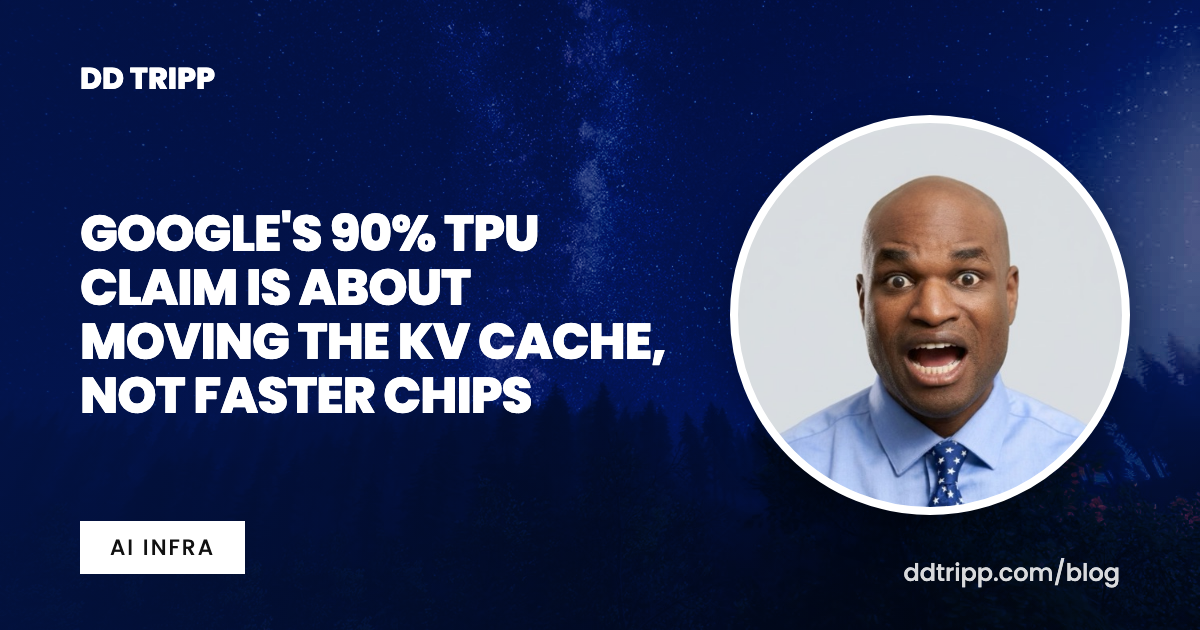
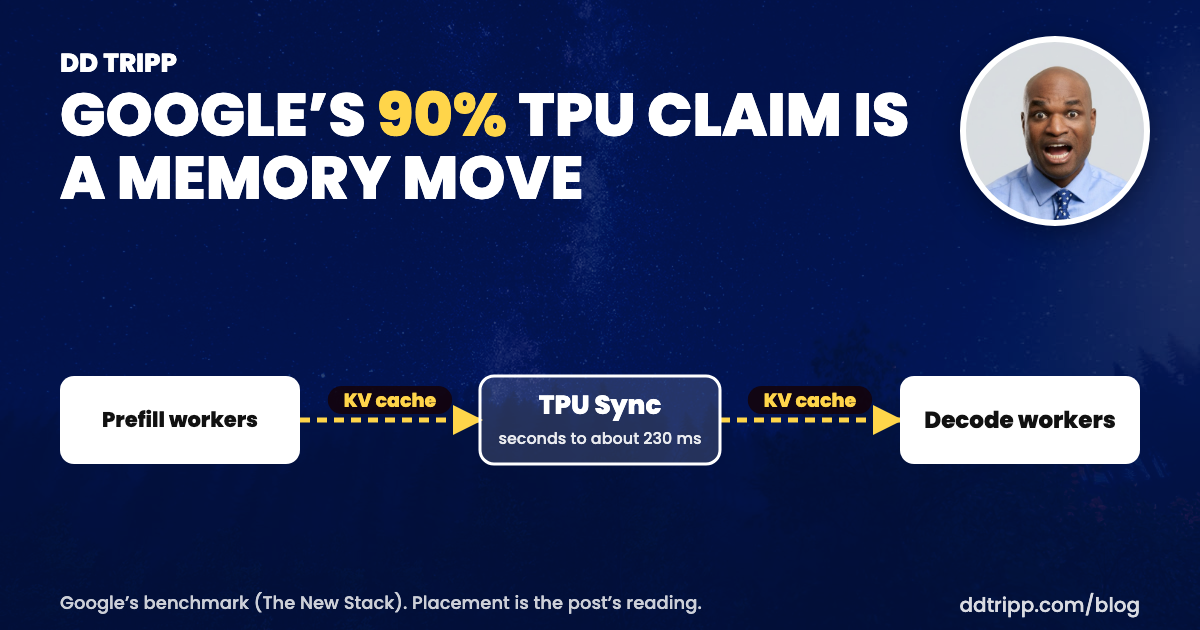
Backfill title images: short headlines for all posts, source-checked diagrams for nine

diff --git a/src/content/blog/postgres-upgrade-is-not-the-scary-part.md b/src/content/blog/postgres-upgrade-is-not-the-scary-part.md
@@ -2,6 +2,8 @@
 title: "The scary part of a Postgres major upgrade isn't Postgres"
 description: "Percona's operator now automates major version upgrades on Kubernetes. The risk that's left is the operating system library under the database."
 pubDate: 'Nov 10 2026 09:00'
+imageHeadline: 'The scary part of a Postgres upgrade isn’t Postgres'
+imageDiagram: '{"nodes": [{"id": "r", "label": "PerconaPGUpgrade", "col": 0, "row": 0, "src": "you create a PerconaPGUpgrade resource that names the cluster"}, {"id": "u", "label": "pg_upgrade --link", "col": 1, "row": 0, "src": "executes pg_upgrade --link on the primary''s volume"}, {"id": "rep", "label": "Replicas re-sync", "col": 2, "row": 0, "src": "Re-syncs the replicas from the upgraded primary"}, {"id": "os", "label": "UBI 8 to UBI 9", "col": 0, "row": 2, "sub": "operator v2.6.0 image", "style": "muted", "src": "From operator v2.6.0 the base image moved from UBI 8 to UBI 9"}, {"id": "g", "label": "glibc 2.28 to 2.34", "col": 1, "row": 2, "src": "That changes glibc from 2.28 to 2.34"}, {"id": "ix", "label": "Collation warning", "col": 2, "row": 2, "sub": "REINDEX needed", "src": ["Postgres warns about a collation version mismatch", "needed REINDEX INDEX CONCURRENTLY on the affected index"]}], "edges": [{"from": "r", "to": "u", "src": "executes pg_upgrade --link on the primary''s volume"}, {"from": "u", "to": "rep", "src": "Re-syncs the replicas from the upgraded primary"}, {"from": "os", "to": "g", "src": "That changes glibc from 2.28 to 2.34"}, {"from": "g", "to": "ix", "label": "sort order", "style": "hot", "src": "When the sort order changes underneath existing indexes, Postgres warns about a collation version mismatch"}], "note": "The cluster shuts down first, so the upgrade means downtime"}'
 imageTag: 'Postgres'
 heroImage: '../../assets/post-images/postgres-upgrade-is-not-the-scary-part.png'
 imageTheme: 'red'

diff --git a/src/content/blog/drain-one-direct-connect-link.md b/src/content/blog/drain-one-direct-connect-link.md
@@ -2,6 +2,8 @@
 title: "DeepL drains one Direct Connect link without moving every Region"
 description: "Local preference would have changed the exit for all Regions at once. An AS_PATH prepend changes it for one, because the decision is made at each Cloud WAN edge."
 pubDate: 'Nov 09 2026 13:00'
+imageHeadline: 'DeepL drains one Direct Connect link'
+imageDiagram: '{"nodes": [{"id": "d", "label": "Dublin link", "col": 0, "row": 1, "sub": "AS_PATH prepended", "style": "muted", "src": "An on-premises AS_PATH prepend on the Dublin virtual interface"}, {"id": "w", "label": "eu-west-1 edge", "col": 1, "row": 1, "sub": "sees a longer path", "src": "The eu-west-1 edge sees its gateway path become longer than the paths from the eu-central-1 and eu-north-1 edges"}, {"id": "c", "label": "eu-central-1 edge", "col": 2, "row": 0, "sub": "exits via Copenhagen", "src": "eu-central-1 through Copenhagen"}, {"id": "n", "label": "eu-north-1 edge", "col": 2, "row": 2, "sub": "exits via Stockholm", "src": "eu-north-1 through Stockholm"}], "edges": [{"from": "d", "to": "w", "label": "prepend", "style": "dashed", "src": "An on-premises AS_PATH prepend on the Dublin virtual interface"}, {"from": "w", "to": "c", "label": "core network", "style": "dashed", "src": "so it sends traffic across the core network and out through Copenhagen or Stockholm"}, {"from": "w", "to": "n", "label": "core network", "style": "dashed", "src": "so it sends traffic across the core network and out through Copenhagen or Stockholm"}], "note": "Cloud WAN picks Copenhagen or Stockholm by default"}'
 imageTag: 'Networking'
 heroImage: '../../assets/post-images/drain-one-direct-connect-link.png'
 imageTheme: 'purple'

diff --git a/src/content/blog/agent-memory-is-a-write-path.md b/src/content/blog/agent-memory-is-a-write-path.md
@@ -2,6 +2,8 @@
 title: 'Agent memory is a write path into your prompts'
 description: "AWS's guidance on validating writes to Amazon Bedrock AgentCore memory, and the part of it that applies to any agent with memory."
 pubDate: 'Nov 09 2026 09:00'
+imageHeadline: 'Agent memory is a write path'
+imageDiagram: '{"nodes": [{"id": "w", "label": "Agent write", "col": 0, "row": 1, "src": "A function that runs before each write and scores it"}, {"id": "sc", "label": "Score the write", "col": 1, "row": 1, "sub": "four signals", "src": ["A function that runs before each write and scores it", "Four signals feed the score"]}, {"id": "al", "label": "Allow", "col": 2, "row": 0, "sub": "below 35", "src": "Below 35: allow."}, {"id": "qu", "label": "Quarantine", "col": 2, "row": 1, "sub": "35 to 60", "style": "muted", "src": "35 to 60: quarantine. The write goes to an isolated namespace and the agent keeps running"}, {"id": "de", "label": "Deny", "col": 2, "row": 2, "sub": "above 60, alert", "src": "Above 60: deny, and send an alert"}], "edges": [{"from": "w", "to": "sc", "src": "A function that runs before each write and scores it"}, {"from": "sc", "to": "al", "src": "Below 35: allow."}, {"from": "sc", "to": "qu", "style": "hot", "src": "35 to 60: quarantine. The write goes to an isolated namespace and the agent keeps running"}, {"from": "sc", "to": "de", "src": "Above 60: deny, and send an alert"}], "note": "Thresholds are AWS’s own, as described in its post"}'
 imageTag: 'AI security'
 heroImage: '../../assets/post-images/agent-memory-is-a-write-path.png'
 imageTheme: 'purple'

diff --git a/src/content/blog/valkey-cutover-was-one-dns-record.md b/src/content/blog/valkey-cutover-was-one-dns-record.md
@@ -2,6 +2,8 @@
 title: "Topstep moved 53 million keys with one DNS change"
 description: "A trading platform replaced a single self-managed Redis node with ElastiCache for Valkey. The cutover was a DNS record. The TLS certificate was the part to plan for."
 pubDate: 'Nov 09 2026 09:00'
+imageHeadline: '53M keys moved with one DNS change'
+imageDiagram: '{"nodes": [{"id": "apps", "label": "Apps", "col": 0, "row": 1, "src": "when clients connect through the custom name"}, {"id": "dns", "label": "DNS record", "col": 1, "row": 1, "sub": "Route 53", "src": "change the Route 53 record from an A record pointing at the EC2 IP to a CNAME"}, {"id": "old", "label": "Old: Redis OSS 7.4", "col": 2, "row": 0, "sub": "one EC2 node, no replica", "style": "muted", "src": ["The source was Redis OSS 7.4", "one node, no replica, no automatic failover"]}, {"id": "new", "label": "New: Valkey", "col": 2, "row": 2, "sub": "primary + replica, TLS", "src": "primary plus replica, Multi-AZ, TLS on"}], "edges": [{"from": "apps", "to": "dns", "src": "when clients connect through the custom name"}, {"from": "dns", "to": "old", "label": "before", "src": "an A record pointing at the EC2 IP"}, {"from": "dns", "to": "new", "label": "after: CNAME", "style": "hot", "src": "to a CNAME pointing at the ElastiCache primary endpoint"}, {"from": "old", "to": "new", "label": "RedisShake", "style": "dashed", "src": "they used RedisShake in PSYNC mode"}]}'
 imageTag: 'Valkey'
 heroImage: '../../assets/post-images/valkey-cutover-was-one-dns-record.png'
 imageTheme: 'red'

diff --git a/src/content/blog/athena-keeps-a-table-of-every-query.md b/src/content/blog/athena-keeps-a-table-of-every-query.md
@@ -2,6 +2,8 @@
 title: 'Athena now keeps a table of every query it runs'
 description: "Athena's new system tables make query telemetry something you can query with SQL, in an open table format you own."
 pubDate: 'Nov 10 2026 15:00'
+imageHeadline: 'Athena now logs every query to a table'
+imageDiagram: '{"nodes": [{"id": "q", "label": "Athena query", "col": 0, "row": 1, "sub": "success or failed", "src": "one row for every query that completes, successful or failed"}, {"id": "t", "label": "query_executions", "col": 1, "row": 1, "sub": "one row per query", "src": "one row for every query that completes, successful or failed"}, {"id": "s", "label": "S3 Tables", "col": 2, "row": 0, "sub": "Apache Iceberg", "src": "The table is Apache Iceberg on Amazon S3 Tables, in your own account"}, {"id": "o", "label": "DuckDB, Redshift", "col": 2, "row": 2, "sub": "other Iceberg engines", "src": "other Iceberg-compatible engines such as DuckDB and Amazon Redshift can read it too"}], "edges": [{"from": "q", "to": "t", "label": "in minutes", "src": "Data shows up within minutes of a query finishing"}, {"from": "t", "to": "s", "label": "stored as", "src": "The table is Apache Iceberg on Amazon S3 Tables, in your own account"}, {"from": "t", "to": "o", "label": "can read", "style": "dashed", "src": "other Iceberg-compatible engines such as DuckDB and Amazon Redshift can read it too"}]}'
 imageTag: 'Data'
 heroImage: '../../assets/post-images/athena-keeps-a-table-of-every-query.png'
 imageTheme: 'blue'

diff --git a/src/content/blog/a-404-is-not-proof.md b/src/content/blog/a-404-is-not-proof.md
@@ -2,6 +2,8 @@
 title: "A 404 isn't proof an endpoint is dead"
 description: 'How I decided 249 failing sources in a data pipeline were really gone, and kept a way to find out if any came back.'
 pubDate: 'Nov 09 2026 15:00'
+imageHeadline: 'A 404 isn’t proof an endpoint is dead'
+imageDiagram: '{"nodes": [{"id": "n", "label": "Three 404s", "col": 0, "row": 1, "sub": "in a row = candidate", "src": "a source only becomes a candidate for removal after three consecutive failures that are 404s"}, {"id": "p", "label": "Re-probe live", "col": 1, "row": 1, "sub": "at the moment of removal", "src": "the cleanup tool re-checks every candidate live at the moment of removal"}, {"id": "r", "label": "Retired file", "col": 2, "row": 1, "sub": "permanent record", "src": "Each removed source is appended to a permanent file that records what was retired"}, {"id": "c", "label": "Recheck command", "col": 2, "row": 2, "sub": "lists any live again", "src": "A separate recheck command reads that file, probes each entry again, and lists any that are live again"}], "edges": [{"from": "n", "to": "p", "src": "re-checks every candidate live at the moment of removal"}, {"from": "p", "to": "r", "src": "Only the ones still failing are removed"}, {"from": "r", "to": "c", "src": "A separate recheck command reads that file, probes each entry again"}]}'
 imageTag: 'Reliability'
 heroImage: '../../assets/post-images/a-404-is-not-proof.png'
 imageTheme: 'green'

diff --git a/src/content/blog/tpu-sync-90-percent-is-a-memory-move.md b/src/content/blog/tpu-sync-90-percent-is-a-memory-move.md
@@ -2,6 +2,8 @@
 title: "Google's 90% TPU claim is about moving the KV cache, not faster chips"
 description: 'What TPU Sync actually changes for inference, which numbers Google published, and the caveats the coverage attaches to them.'
 pubDate: 'Nov 09 2026 13:00'
+imageHeadline: 'Google’s 90% TPU claim is a memory move'
+imageDiagram: '{"nodes": [{"id": "pre", "label": "Prefill workers", "col": 0, "row": 1, "src": "disaggregated serving splits prefill and decode across separate workers"}, {"id": "sync", "label": "TPU Sync", "col": 1, "row": 1, "sub": "seconds to about 230 ms", "style": "muted", "src": "went from several seconds to about 230 milliseconds"}, {"id": "dec", "label": "Decode workers", "col": 2, "row": 1, "src": "disaggregated serving splits prefill and decode across separate workers"}], "edges": [{"from": "pre", "to": "sync", "label": "KV cache", "style": "hot", "src": ["the KV cache has to move between them", "TPU Sync looks aimed at that gap"]}, {"from": "sync", "to": "dec", "label": "KV cache", "style": "hot", "src": ["the KV cache has to move between them", "TPU Sync looks aimed at that gap"]}], "note": "Google’s benchmark (The New Stack). Placement is the post’s reading."}'
 imageTag: 'AI infra'
 heroImage: '../../assets/post-images/tpu-sync-90-percent-is-a-memory-move.png'
 imageTheme: 'blue'

diff --git a/src/content/blog/confluent-opensearch-fewer-nodes-measure-first.md b/src/content/blog/confluent-opensearch-fewer-nodes-measure-first.md
@@ -2,6 +2,8 @@
 title: "Confluent cut its OpenSearch hot tier from 168 nodes to 90"
 description: "AWS describes how Confluent swapped instance types at constant node count, measured the headroom, then removed nodes until JVM heap became the limit."
 pubDate: 'Nov 11 2026 13:00'
+imageHeadline: '168 OpenSearch nodes became 90'
+imageDiagram: '{"nodes": [{"id": "a", "label": "r6gd", "col": 0, "row": 1, "sub": "168 nodes", "style": "muted", "src": ["The hot tier ran on r6gd, a previous-generation Graviton2 instance", "ended up with 90 nodes instead of 168"]}, {"id": "b", "label": "oi2", "col": 1, "row": 1, "sub": "same count, one-third CPU", "src": "At equal node count oi2 ran at roughly one-third the CPU of r6gd"}, {"id": "c", "label": "oi2", "col": 2, "row": 1, "sub": "90 nodes, 1.9x load each", "src": "Each oi2 node ended up carrying about 1.9x the load of an r6gd node (168 divided by 90)"}], "edges": [{"from": "a", "to": "b", "label": "swap type", "src": "Type swap at constant node count"}, {"from": "b", "to": "c", "label": "rightsize", "style": "hot", "src": "Iterative rightsizing. Nodes were removed in steps"}], "note": "Figures as reported in the AWS Big Data Blog post"}'
 imageTag: 'OpenSearch sizing'
 heroImage: '../../assets/post-images/confluent-opensearch-fewer-nodes-measure-first.png'
 imageTheme: 'red'

diff --git a/src/content/blog/cut-3824-items-to-13.md b/src/content/blog/cut-3824-items-to-13.md
@@ -2,6 +2,8 @@
 title: 'I cut 3,824 items to 13 before a model read any of them'
 description: 'A deterministic shortlist step for a feed reader: filter in plain code first, so the model only reads about 1,500 tokens.'
 pubDate: 'Nov 09 2026 12:00'
+imageHeadline: '3,824 items cut to 13 before any model'
+imageDiagram: '{"nodes": [{"id": "f", "label": "3,824 new items", "col": 0, "row": 1, "sub": "over 100 feeds", "src": "The first fetch returned 3,824 new items from over 100 feeds"}, {"id": "p", "label": "Plain-code filters", "col": 1, "row": 1, "sub": "no model involved", "src": ["No model is involved in any of these", "So a plain-code step runs first and the model only sees what survives"]}, {"id": "s", "label": "13 items", "col": 2, "row": 1, "sub": "about 1,500 tokens", "src": "The result for that first run: 13 items, about 1,500 tokens"}], "edges": [{"from": "f", "to": "p", "src": "So a plain-code step runs first and the model only sees what survives"}, {"from": "p", "to": "s", "style": "hot", "src": "The result for that first run: 13 items, about 1,500 tokens"}]}'
 imageTag: 'Build log'
 heroImage: '../../assets/post-images/cut-3824-items-to-13.png'
 imageTheme: 'blue'

diff --git a/src/content/blog/reliability-layers-sort-they-dont-fix.md b/src/content/blog/reliability-layers-sort-they-dont-fix.md
@@ -2,6 +2,7 @@
 title: "Stacking LLM checks sorted answers. It fixed almost none."
 description: 'An InfoQ test of six reliability layers around an LLM found they ranked answers by trust but corrected almost nothing, and why yield matters next to accuracy.'
 pubDate: 'Nov 10 2026 09:00'
+imageHeadline: 'LLM checks sorted answers, fixed almost none'
 imageTag: 'LLM reliability'
 heroImage: '../../assets/post-images/reliability-layers-sort-they-dont-fix.png'
 imageTheme: 'purple'

diff --git a/src/content/blog/nitro-sandboxes-one-vm-per-container.md b/src/content/blog/nitro-sandboxes-one-vm-per-container.md
@@ -2,6 +2,7 @@
 title: "Nitro Sandboxes give each container its own VM, at no extra charge"
 description: 'AWS says Nitro Sandboxes put each EKS pod or ECS task in its own hardware-isolated VM with its own kernel, without a separate instance per workload.'
 pubDate: 'Nov 11 2026 09:00'
+imageHeadline: 'Nitro Sandboxes: one VM per container'
 imageTag: 'Container isolation'
 heroImage: '../../assets/post-images/nitro-sandboxes-one-vm-per-container.png'
 imageTheme: 'green'

diff --git a/src/content/blog/nightly-batch-llm-paid-for-24-hours.md b/src/content/blog/nightly-batch-llm-paid-for-24-hours.md
@@ -2,6 +2,7 @@
 title: "A nightly LLM batch job was paying for 24-hour capacity"
 description: 'Walmart Global Tech says switching a nightly multi-agent inventory job from reserved PTUs to pay-as-you-go cut inference from about $100k a month to $10k.'
 pubDate: 'Nov 10 2026 13:00'
+imageHeadline: 'A nightly LLM job paid for 24 hours'
 imageTag: 'LLM cost'
 heroImage: '../../assets/post-images/nightly-batch-llm-paid-for-24-hours.png'
 imageTheme: 'green'
